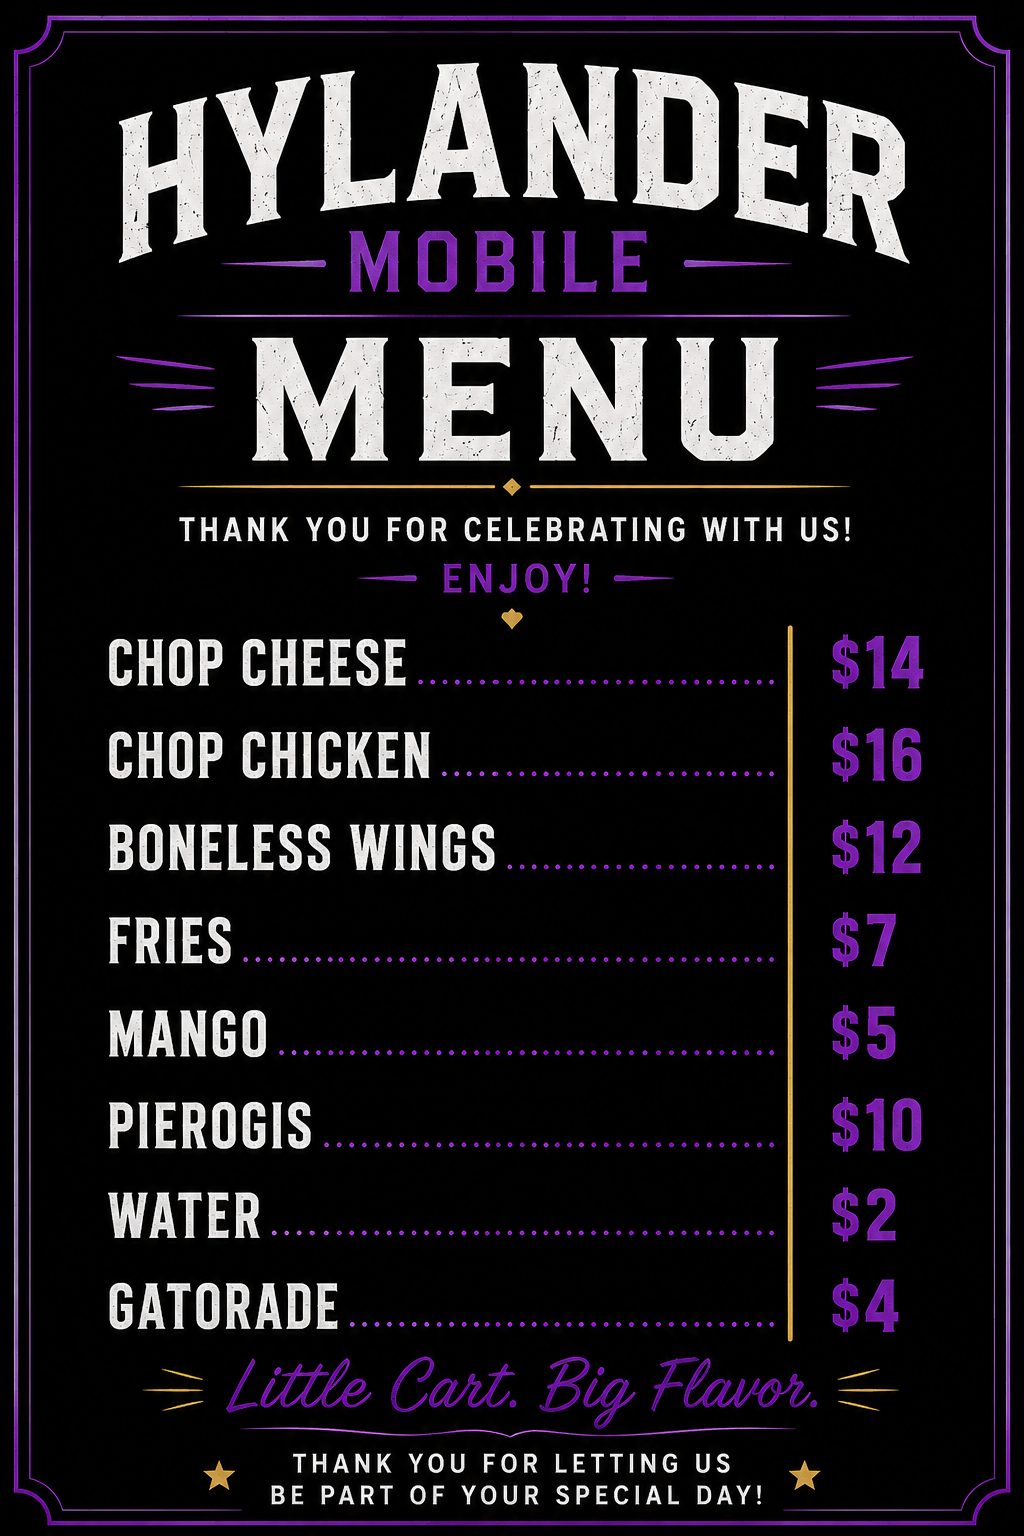
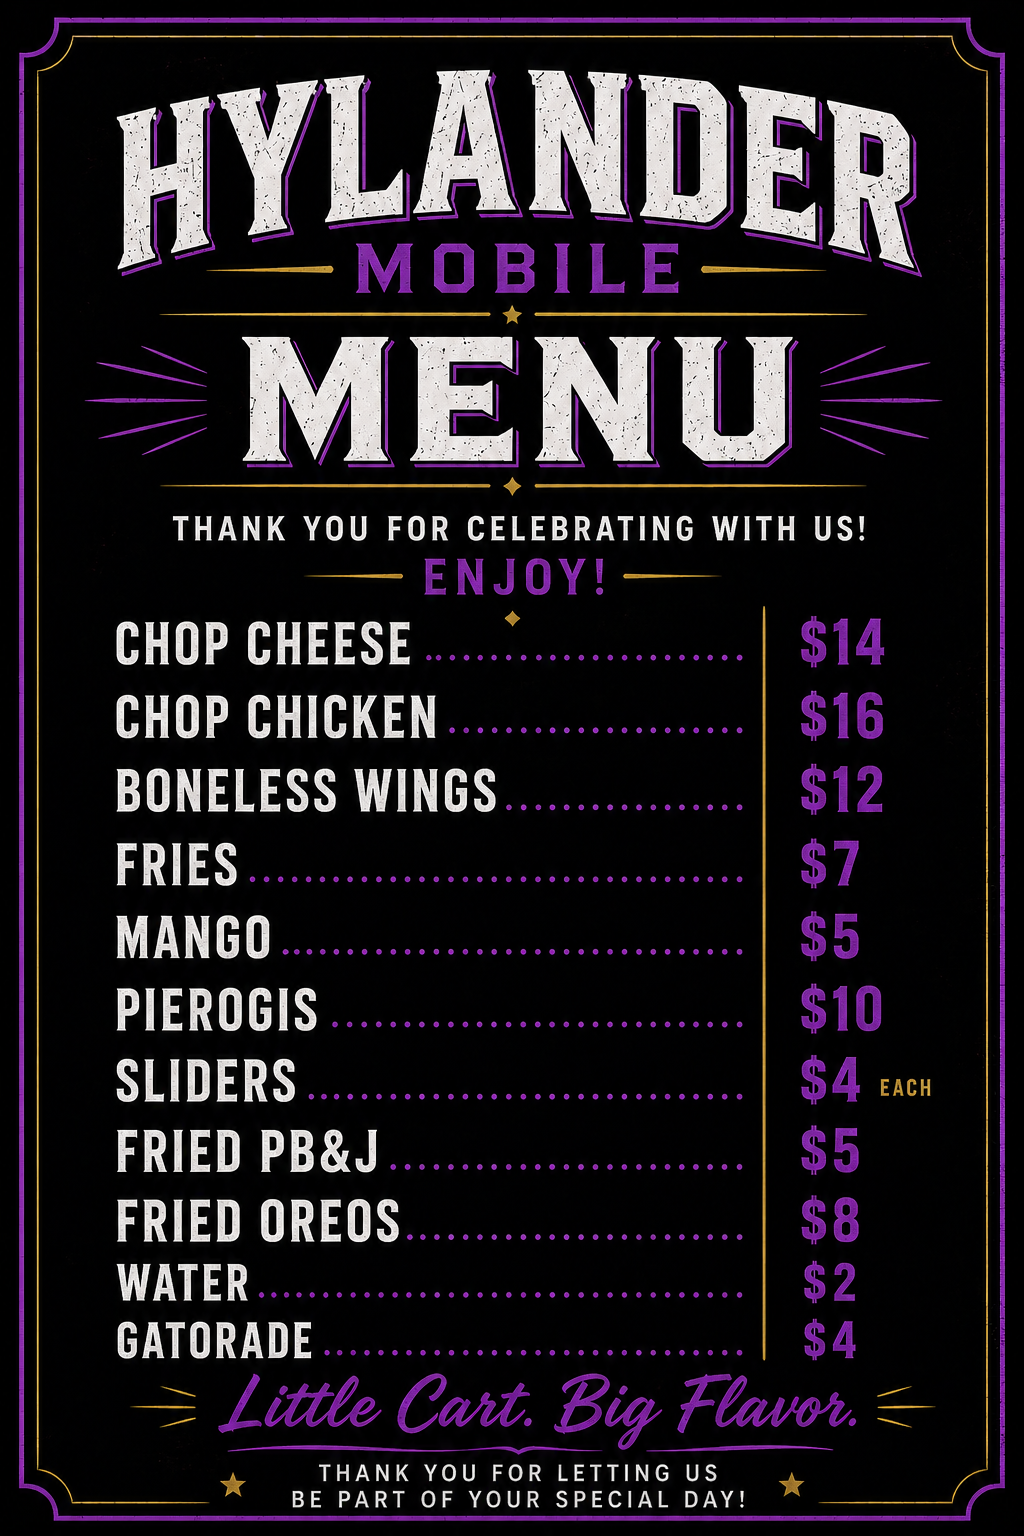
Update wedding menu image with added items
Bumps the cache-busting query param so the new version replaces the
previously cached image on the live site.

Changed region(s): [[0.0, 0.0, 1.0, 1.0], [0.4375, 0.6562, 0.4688, 0.6875]]

diff --git a/components/RandomMenuImage.tsx b/components/RandomMenuImage.tsx
@@ -61,7 +61,7 @@ const eventMenuWindows: { start: string; end: string; image: MenuImage }[] = [
     start: "2026-07-25T18:00:00-04:00",
     end: "2026-07-26T19:00:00-04:00",
     image: {
-      src: "/img/wedding.png",
+      src: "/img/wedding.png?v=20260725b",
       title: "Wedding Menu",
       alt: "Hylander Mobile wedding party food truck menu for July 25, 2026."
     }
